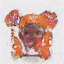
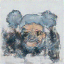
CAAAAAAALMA

diff --git a/inference.py b/inference.py
@@ -258,8 +258,11 @@ class AvatarGenerator:
 
                     # Ricostruzione x_0 e rumore dalla velocita predetta (v-parameterization, R3)
                     pred_x0 = self.reverse_process.predict_x0_from_v(x, predicted_v, t)
-                    predicted_noise = self.reverse_process.predict_noise_from_v(x, predicted_v, t)
                     pred_x0 = torch.clamp(pred_x0, -1.0, 1.0)
+                    
+                    # Recalculate predicted_noise using the clipped pred_x0 to avoid accumulation of errors
+                    alpha_bar_t = self.reverse_process._extract(self.reverse_process.alpha_bars, t, x)
+                    predicted_noise = (x - torch.sqrt(alpha_bar_t) * pred_x0) / torch.sqrt(1.0 - alpha_bar_t)
 
                     if t_prev_val is None:
                         x = pred_x0
@@ -334,7 +337,7 @@ def parse_args():
     parser.add_argument(
         "--prompt",
         type=str,
-        default="a cartoon avatar with white skin, wavy hair, dark eyes, glasses, and no beard",
+        default="a cartoon avatar with pale skin, blond hair, dark eyes, glasses, and no beard",
         help="Prompt testuale per condizionare la generazione dell'avatar"
     )
     parser.add_argument(
@@ -358,7 +361,7 @@ def parse_args():
     parser.add_argument(
         "--num_steps",
         type=int,
-        default=3,
+        default=30,
         help="Numero di step per il campionamento accelerato DDIM (default: 50)"
     )
     parser.add_argument(
